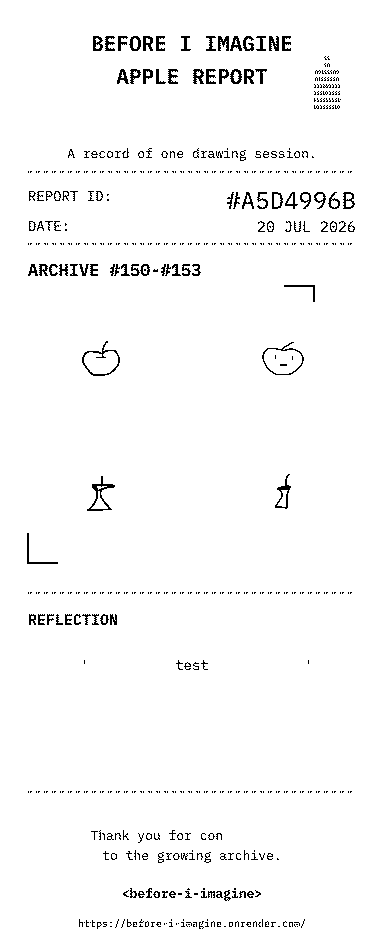
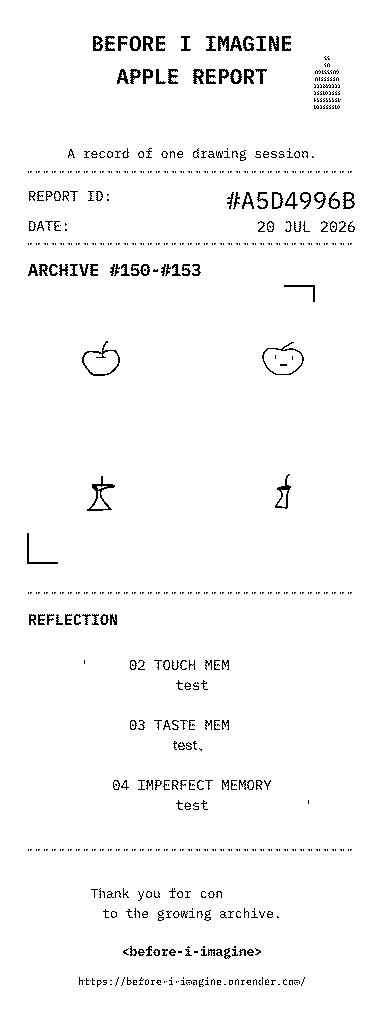
receipt ui design& preview bug

diff --git a/Before_I_Imagine/report.js b/Before_I_Imagine/report.js
@@ -265,13 +265,9 @@ function drawAppleReportSummary(summary, personalDrawings) {
     text(summaryScore, splitX - 52, rowY);
   }
 
-  let reflection = "";
-  for (let drawing of personalDrawings) {
-    if (drawing && drawing.reflection_text) {
-      reflection = drawing.reflection_text;
-      break;
-    }
-  }
+  let reflection = collectReportReflections(personalDrawings)
+    .map((entry) => `${entry.number}: ${entry.text}`)
+    .join("\n");
   fill(70, 66, 61);
   textSize(mobile ? 5.5 : 7.5);
   text(
@@ -377,10 +373,6 @@ function buildAppleReportPrintPayload() {
   let reportId = latest
     ? String(latest.dbId || latest.id || "PENDING").slice(-8).toUpperCase()
     : "PENDING";
-  let reflectionDrawing = personalDrawings.find((drawing) => {
-    return drawing && typeof drawing.reflection_text === "string" &&
-      drawing.reflection_text.trim();
-  });
   let promptNames = [
     "DEFAULT APPLE",
     "TOUCH MEMORY",
@@ -391,7 +383,9 @@ function buildAppleReportPrintPayload() {
   return {
     reportId,
     date: formatReportDate(date),
-    reflection: reflectionDrawing ? reflectionDrawing.reflection_text.trim() : "",
+    reflection: collectReportReflections(personalDrawings, promptNames)
+      .map((entry) => `${entry.number} ${entry.prompt}\n${entry.text}`)
+      .join("\n\n"),
     apples: personalDrawings.map((drawing, index) => {
       return {
         prompt: promptNames[index],
@@ -403,6 +397,19 @@ function buildAppleReportPrintPayload() {
       };
     })
   };
+}
+
+function collectReportReflections(personalDrawings, promptNames = []) {
+  return personalDrawings.flatMap((drawing, index) => {
+    if (!drawing || typeof drawing.reflection_text !== "string") return [];
+    let reflection = drawing.reflection_text.trim();
+    if (!reflection) return [];
+    return [{
+      number: String(index + 1).padStart(2, "0"),
+      prompt: promptNames[index] || "",
+      text: reflection
+    }];
+  });
 }
 
 function getReportPrintAppleNumber(drawing) {
